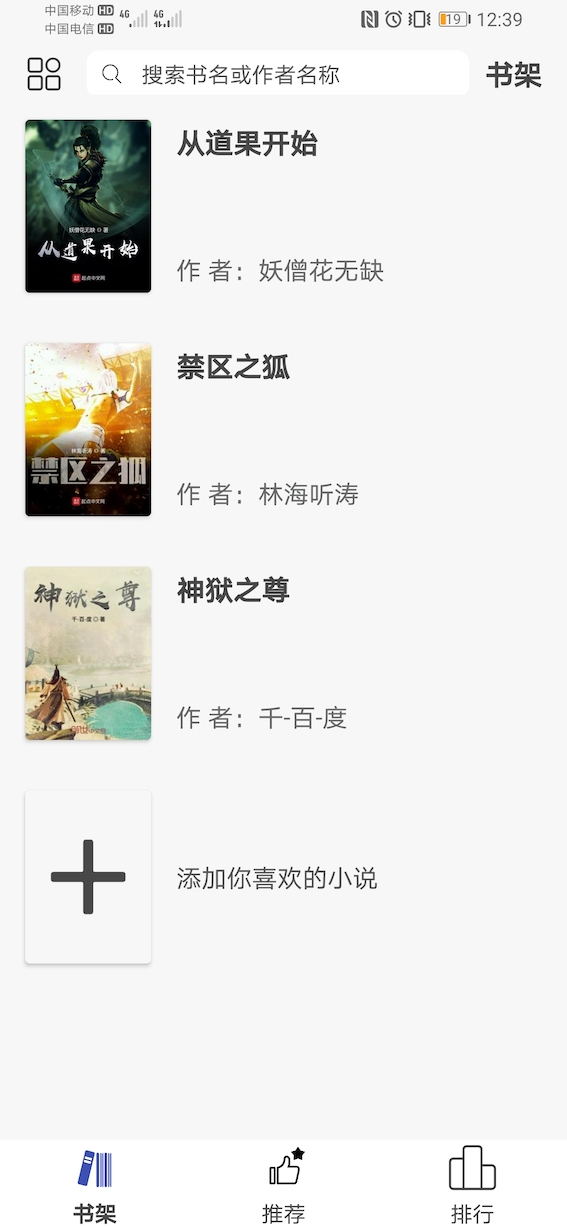
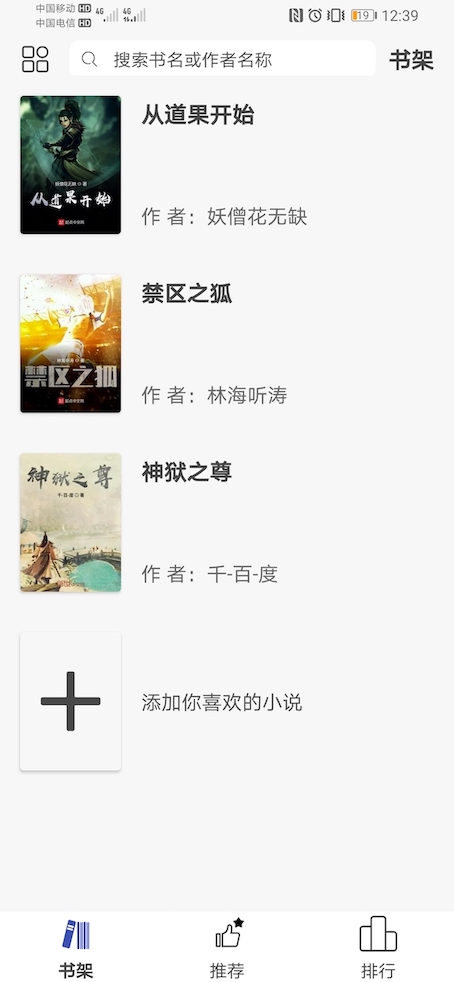
update README.md

diff --git a/README.md b/README.md
@@ -29,7 +29,7 @@ Android 免费小说阅读器
 # 项目截图
 - **书架**
 
-![书架](https://raw.githubusercontent.com/pressureKai/FreeRead/master/screenShot/bookShelf.jpg)
+![书架](https://raw.githubusercontent.com/pressureKai/FreeRead/master/screenShot/bookShelf.jpg) ![移除操作](https://raw.githubusercontent.com/pressureKai/FreeRead/master/screenShot/bookShelf_slide.jpg)
    
   
   
